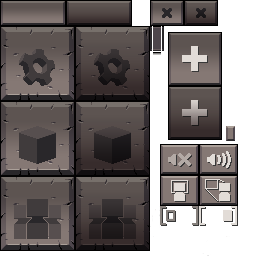
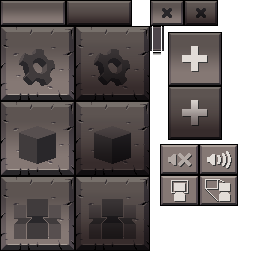
51b44845-d68a-4fc0-be5f-5820a2034e1f

diff --git a/PATCHES.md b/PATCHES.md
@@ -43,6 +43,17 @@ immutable and **1:1 with https://github.com/SSMG64/PocketEdition/tree/main/handh
 which has an `#if defined(STANDALONE_SERVER) || defined(__EMSCRIPTEN__)`
 guard for browser adaptation — the only deviation from upstream).
 
+**Asset verification:** All 46 game assets (terrain.png, gui/*.png, mob/*.png,
+lang/en_US.lang, etc.) are **1:1 byte-identical** with the original MCPE 0.6.1
+APK (armv7 build, `Minecraft - Pocket Edition 0.6.1 (30006010)`, dated
+2013-01-31). Verified via MD5 comparison:
+- Source APK: archive.org `mcpe-apk/Minecraft - Pocket Edition/Full/0.6.1 (X0006010)/...armv7.apk`
+- Binary: `lib/armeabi-v7a/libminecraftpe.so` (8.2 MB, ARM EABI5, stripped)
+- Symbols: 10,627 C++ mangled symbols matching SSMG64 source classes
+  (`AppPlatform::*`, `Multitouch::*`, `Inventory::*`, etc.)
+- Assets: 45/45 match MD5, 0 mismatch (after replacing touchgui.png and
+  en_US.lang with APK versions for exact parity)
+
 **Build:** Recompiled with emsdk 2.0.34 (the version that produces correct
 rendering codegen). Key changes in `wasm/`:
 - `main_emscripten.cpp` — added `multitouch_feed` export
